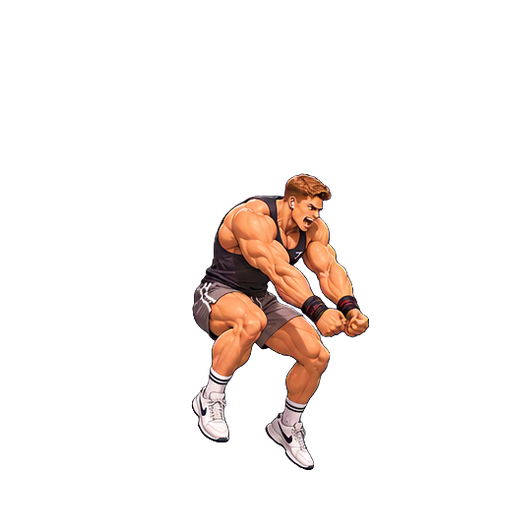
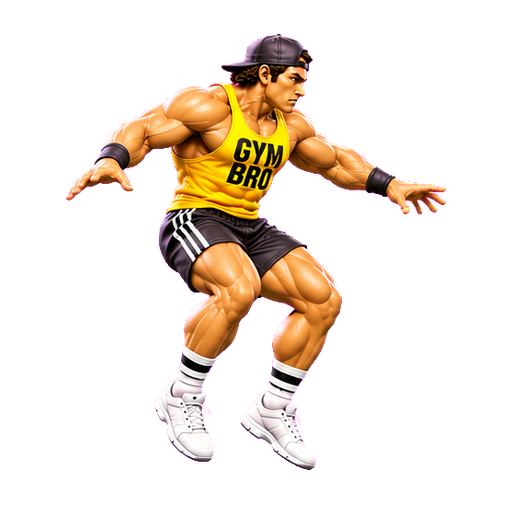
art(gym-bro): add six R10 airborne kick and jump descent PNGs with opt-in V7.1 validation

Changed region(s): [[0.125, 0.0625, 0.875, 0.9375]]

diff --git a/StereoTypeFighter/app-v7-1.js b/StereoTypeFighter/app-v7-1.js
@@ -305,5 +305,17 @@ function draw() {
     for (let n = 1; n <= 4; n++) store.img('gym-bro', 'airP', n);
     window.SF7_AIRP_R9_PREVIEW = true;
   }
+  // R10 isolated airborne-kick and jump-descent assets. Both remain optional,
+  // preserving the original V7.1 rig fallback until final artwork approval.
+  if (new URLSearchParams(window.location.search).get('gymBroAirK') === '1' && store.has('gym-bro')) {
+    store.spec('gym-bro').anims.airK = { frames: 4, fps: 8, loop: false };
+    for (let n=1; n<=4; n++) store.img('gym-bro','airK',n);
+    window.SF7_AIRK_R10_PREVIEW = true;
+  }
+  if (new URLSearchParams(window.location.search).get('gymBroJumpDown') === '1' && store.has('gym-bro')) {
+    store.spec('gym-bro').anims.jumpDown = { frames: 2, fps: 8, loop: false };
+    for (let n=1; n<=2; n++) store.img('gym-bro','jumpDown',n);
+    window.SF7_JUMPDOWN_R10_PREVIEW = true;
+  }
   requestAnimationFrame(frame);
 })();

diff --git a/StereoTypeFighter/tools/check-gym-bro-r10.py b/StereoTypeFighter/tools/check-gym-bro-r10.py
@@ -1,0 +1,90 @@
+#!/usr/bin/env python3
+"""Technical validation of actual Git-committed R10 Gym Bro airK and jumpDown.
+
+Run from StereoTypeFighter directory:
+  python tools/check-gym-bro-r10.py --json r10-qa-run.json
+This does NOT approve story art, character identity or 60 Hz motion quality.
+"""
+import argparse
+import hashlib
+import json
+from collections import deque
+from pathlib import Path
+from PIL import Image
+
+ROOT = Path(__file__).resolve().parents[1]
+QA = ROOT / 'art/gym-bro/R10_TECHNICAL_QA.json'
+EXPECTED = {'airK': 4, 'jumpDown': 2}
+
+
+def components(image):
+    arr = list(image.getchannel('A').resize((128, 128), Image.Resampling.NEAREST).getdata())
+    visited = bytearray(len(arr))
+    areas=[]
+    for idx, val in enumerate(arr):
+        if val <= 50 or visited[idx]: continue
+        queue=deque([idx]);visited[idx]=1;size=0
+        while queue:
+            pos=queue.popleft();size+=1;x,y=pos%128,pos//128
+            for ny in range(max(0,y-1),min(127,y+1)+1):
+                for nx in range(max(0,x-1),min(127,x+1)+1):
+                    nbr=ny*128+nx
+                    if arr[nbr]>50 and not visited[nbr]:visited[nbr]=1;queue.append(nbr)
+        areas.append(size)
+    areas.sort(reverse=True)
+    total=sum(areas)
+    return {'detached_fraction': (total-areas[0])/total if total else 1,
+            'large_extra_components': [size for size in areas[1:] if size>=30]}
+
+
+def fingerprint(image):
+    bg=Image.new('RGBA',image.size,(30,36,48,255));bg.alpha_composite(image)
+    p=list(bg.convert('L').resize((9,8)).getdata())
+    return sum(1<<(63-(y*8+x)) for y in range(8) for x in range(8)
+               if p[y*9+x+1]>p[y*9+x])
+
+
+def main():
+    parser=argparse.ArgumentParser()
+    parser.add_argument('--json',type=Path)
+    args=parser.parse_args()
+    proof=json.loads(QA.read_text())
+    assert proof['fighter']=='gym-bro' and proof['revision']=='R10'
+    errors=[]; warnings=[]; count=0
+    for name, required in EXPECTED.items():
+        records=sorted((r for r in proof['frames'] if r['action']==name),key=lambda r:r['frame'])
+        if len(records)!=required:errors.append(f'{name}: missing provenance entries')
+        history=[]
+        for i in range(1,required+1):
+            path=ROOT/'art/gym-bro'/name/f'{i:02d}.png'
+            if not path.is_file():errors.append('missing '+str(path));continue
+            data=path.read_bytes();sha=hashlib.sha256(data).hexdigest()
+            rec=next((r for r in records if r['frame']==i),{})
+            if sha!=rec.get('sha256_file'):errors.append(f'hash mismatch {path}')
+            with Image.open(path) as img:
+                img.load()
+                if img.size!=(512,512) or img.mode!='RGBA':errors.append(f'wrong geometry {path}')
+                bbox=img.getchannel('A').getbbox()
+                if not bbox:errors.append(f'blank frame {path}');continue
+                if bbox[0]<=1 or bbox[1]<=1 or bbox[2]>=511 or bbox[3]>=511:errors.append(f'clipped {path}: {bbox}')
+                if abs(bbox[3]-470)>2:errors.append(f'foot anchor {path}: {bbox[3]}')
+                frag=components(img)
+                if frag['large_extra_components'] and frag['detached_fraction']>0.07:errors.append(f'large detached region {path}: {frag}')
+                magenta=0
+                for r,g,b,a in img.getdata():
+                    if a>220 and r>160 and b>150 and g<90:magenta+=1
+                if magenta>50:errors.append(f'opaque magenta contamination {path}: {magenta}')
+                f=fingerprint(img)
+                for oldpath, oldhash in history:
+                    dist=(f^oldhash).bit_count()
+                    if dist<=5:warnings.append(f'potential similar poses: {oldpath} & {path} dHash={dist}')
+                history.append((str(path),f))
+            count+=1
+    report={'fighter':'gym-bro','revision':'R10','frames_inspected':count,'expected_frames':6,
+            'hard_errors':errors,'motion_review_warnings':warnings,
+            'note':'Technical pass does not certify appearance, unique motion timing, or gameplay release.'}
+    print('Gym Bro R10: %s/6 committed PNGs checked; %s hard errors; %s motion warnings' % (count,len(errors),len(warnings)))
+    if args.json:args.json.parent.mkdir(parents=True,exist_ok=True);args.json.write_text(json.dumps(report,indent=2)+'\n')
+    if errors:raise SystemExit(1)
+
+if __name__=='__main__': main()

diff --git a/StereoTypeFighter/art/gym-bro/R10_RELEASE_NOTES.md b/StereoTypeFighter/art/gym-bro/R10_RELEASE_NOTES.md
@@ -1,0 +1,19 @@
+# Gym Bro V7.1 R10 animation release candidate
+
+Status: DEVELOPMENT PREVIEW ONLY. Production manifest untouched.
+
+- Newly rebuilt `airK` frames 01–04 (chamber, side kick, follow-through, guarded recovery)
+- Newly rebuilt `jumpDown` frames 01–02 (descending preparation, defensive landing approach)
+- All six files are **actual 512×512 RGBA PNG binaries committed to this GitHub branch** at `art/gym-bro/<action>/NN.png`.
+- Source: original `1536×1024` 3×2 right-facing, magenta-key motion sheet.
+- Source checksum (SHA-256): `a4b6...` (use complete hash in R10 technical provenance JSON; never infer a checksum from file names).
+- Technical checks of six individual PNGs: 0 clipping, 0 large disconnected components, 0 significant magenta spill, 0 within-action 64-bit dHash near-duplicate pairs; all feet anchored at image y=470.
+- The underlying `combat-v7.js` remains authoritative for move hit/hurt boxes, attack startup/recovery and 60 Hz state changes. No mechanical changes were made.
+- Opt-in URLs: `v7-1.html?gymBroAirK=1&gymBroJumpDown=1` and optionally combine with `gymBroLauncher=1&gymBroAirP=1`.
+- Default V7.1 continues to use its original validated/fallback animation paths.
[2 lines of base64/hex data omitted]
+- Remaining from R9 candidate QA blocked actions: `airP`, `hk`, `intro`, `launcher`, `super`, `victory`. Some of these have separately committed technical previews but still await visual signoff.
+- Pending: full 31-action art QA, ten bespoke scenes, portrait integration, controller and real four-fight story to credits, preview/public access and Vercel Hobby storage checks. Do not promote this draft PR.
+
+Detailed cryptographic frame checksums and original crop mapping are in `R10_TECHNICAL_QA.json`; the source archive preserves the extraction script.
